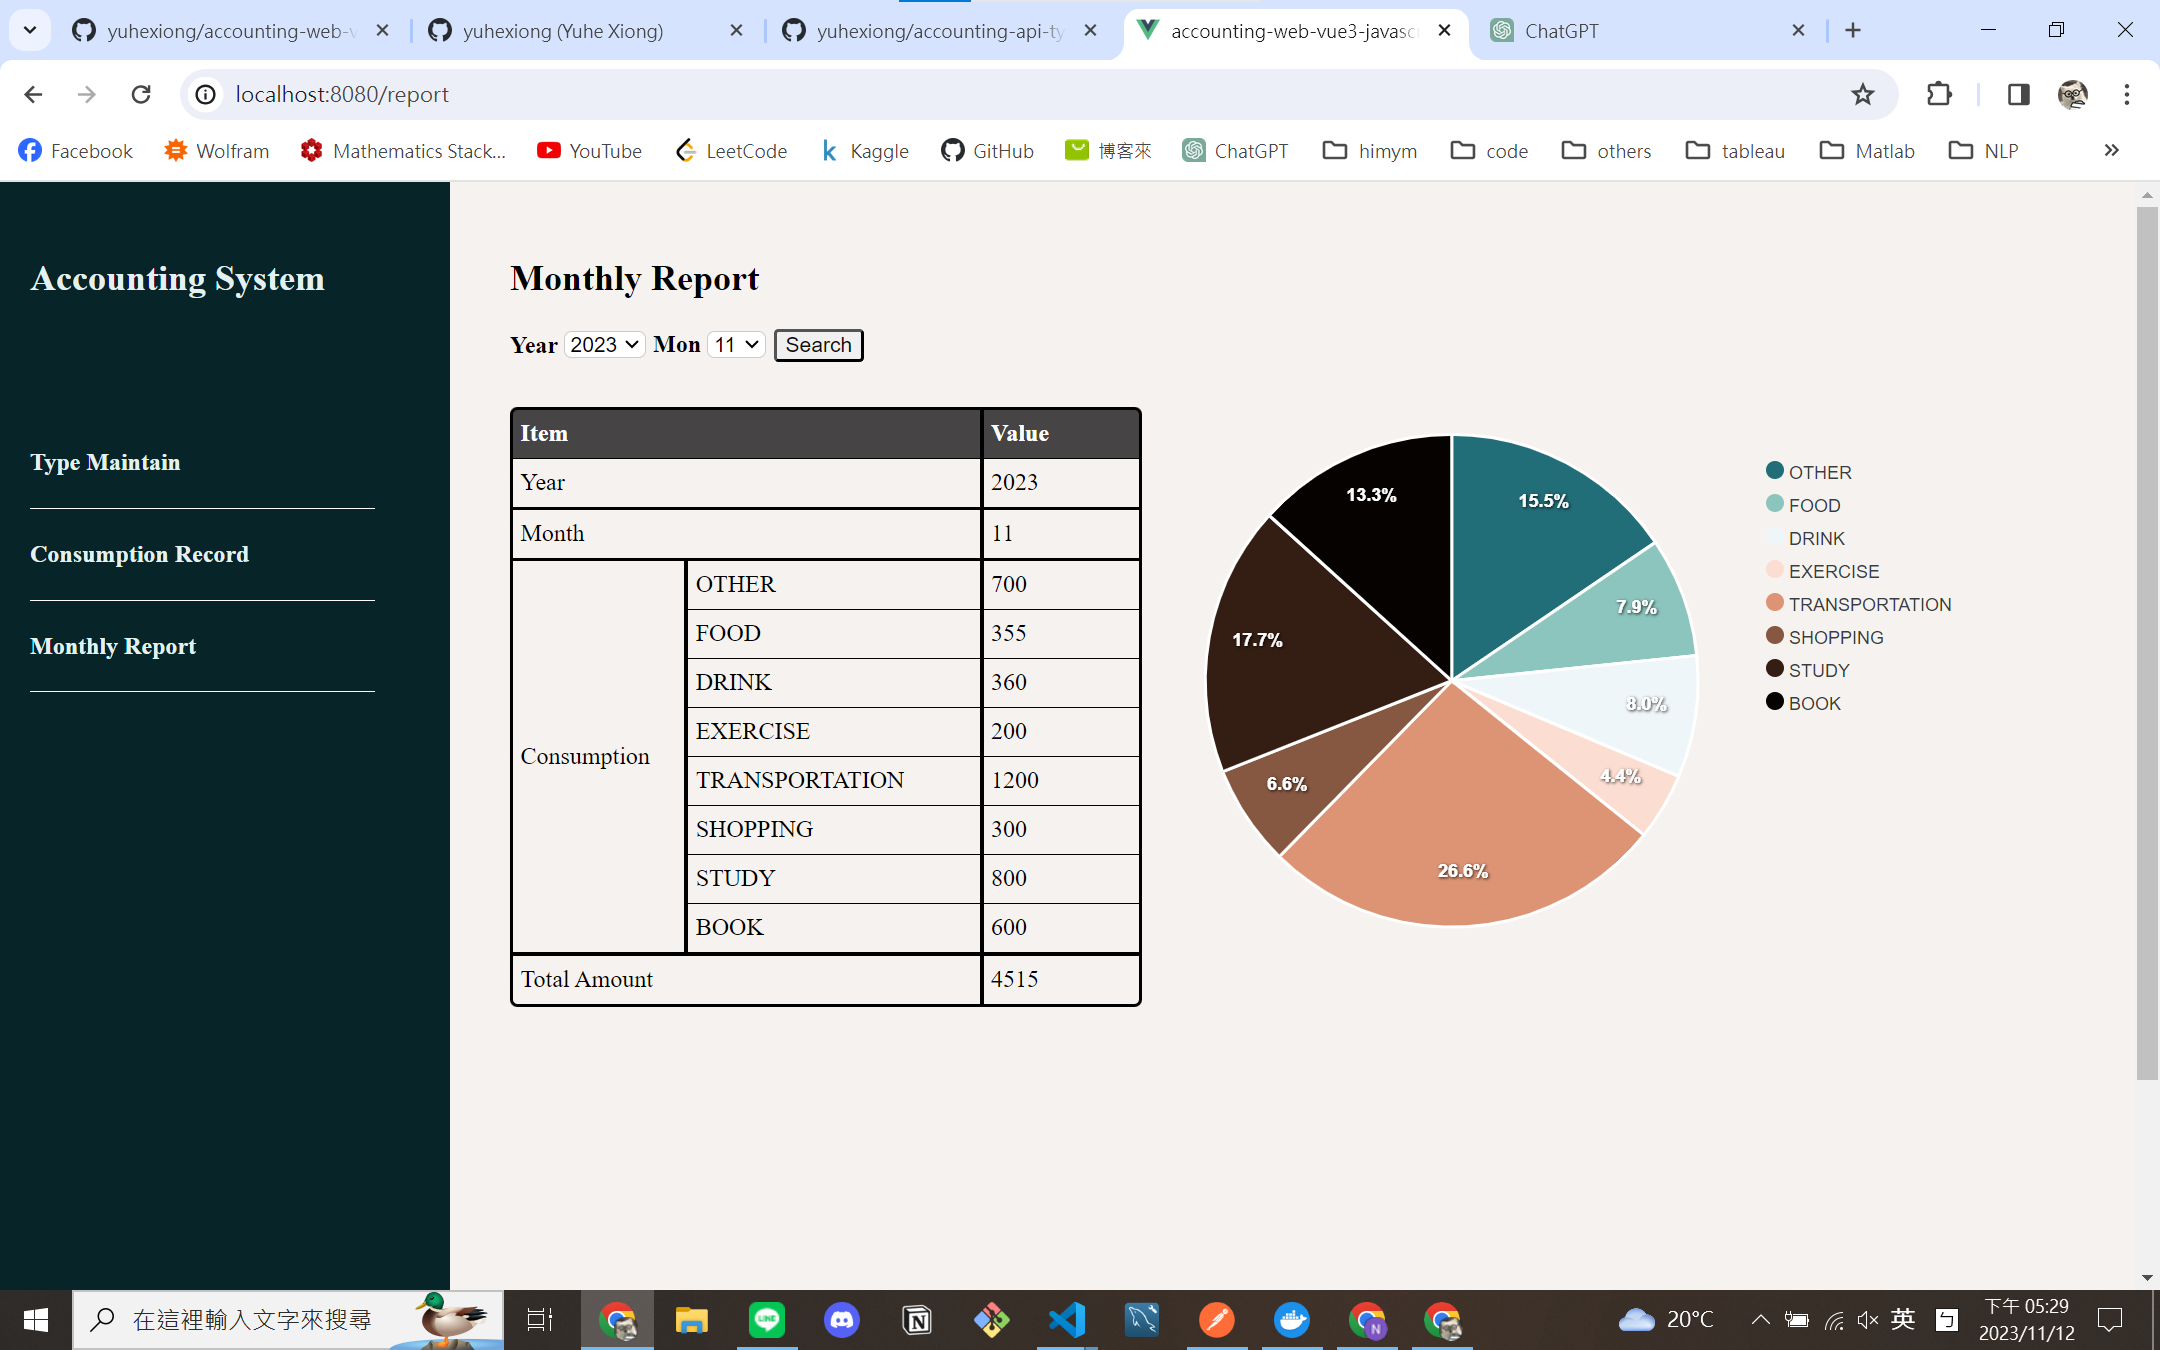
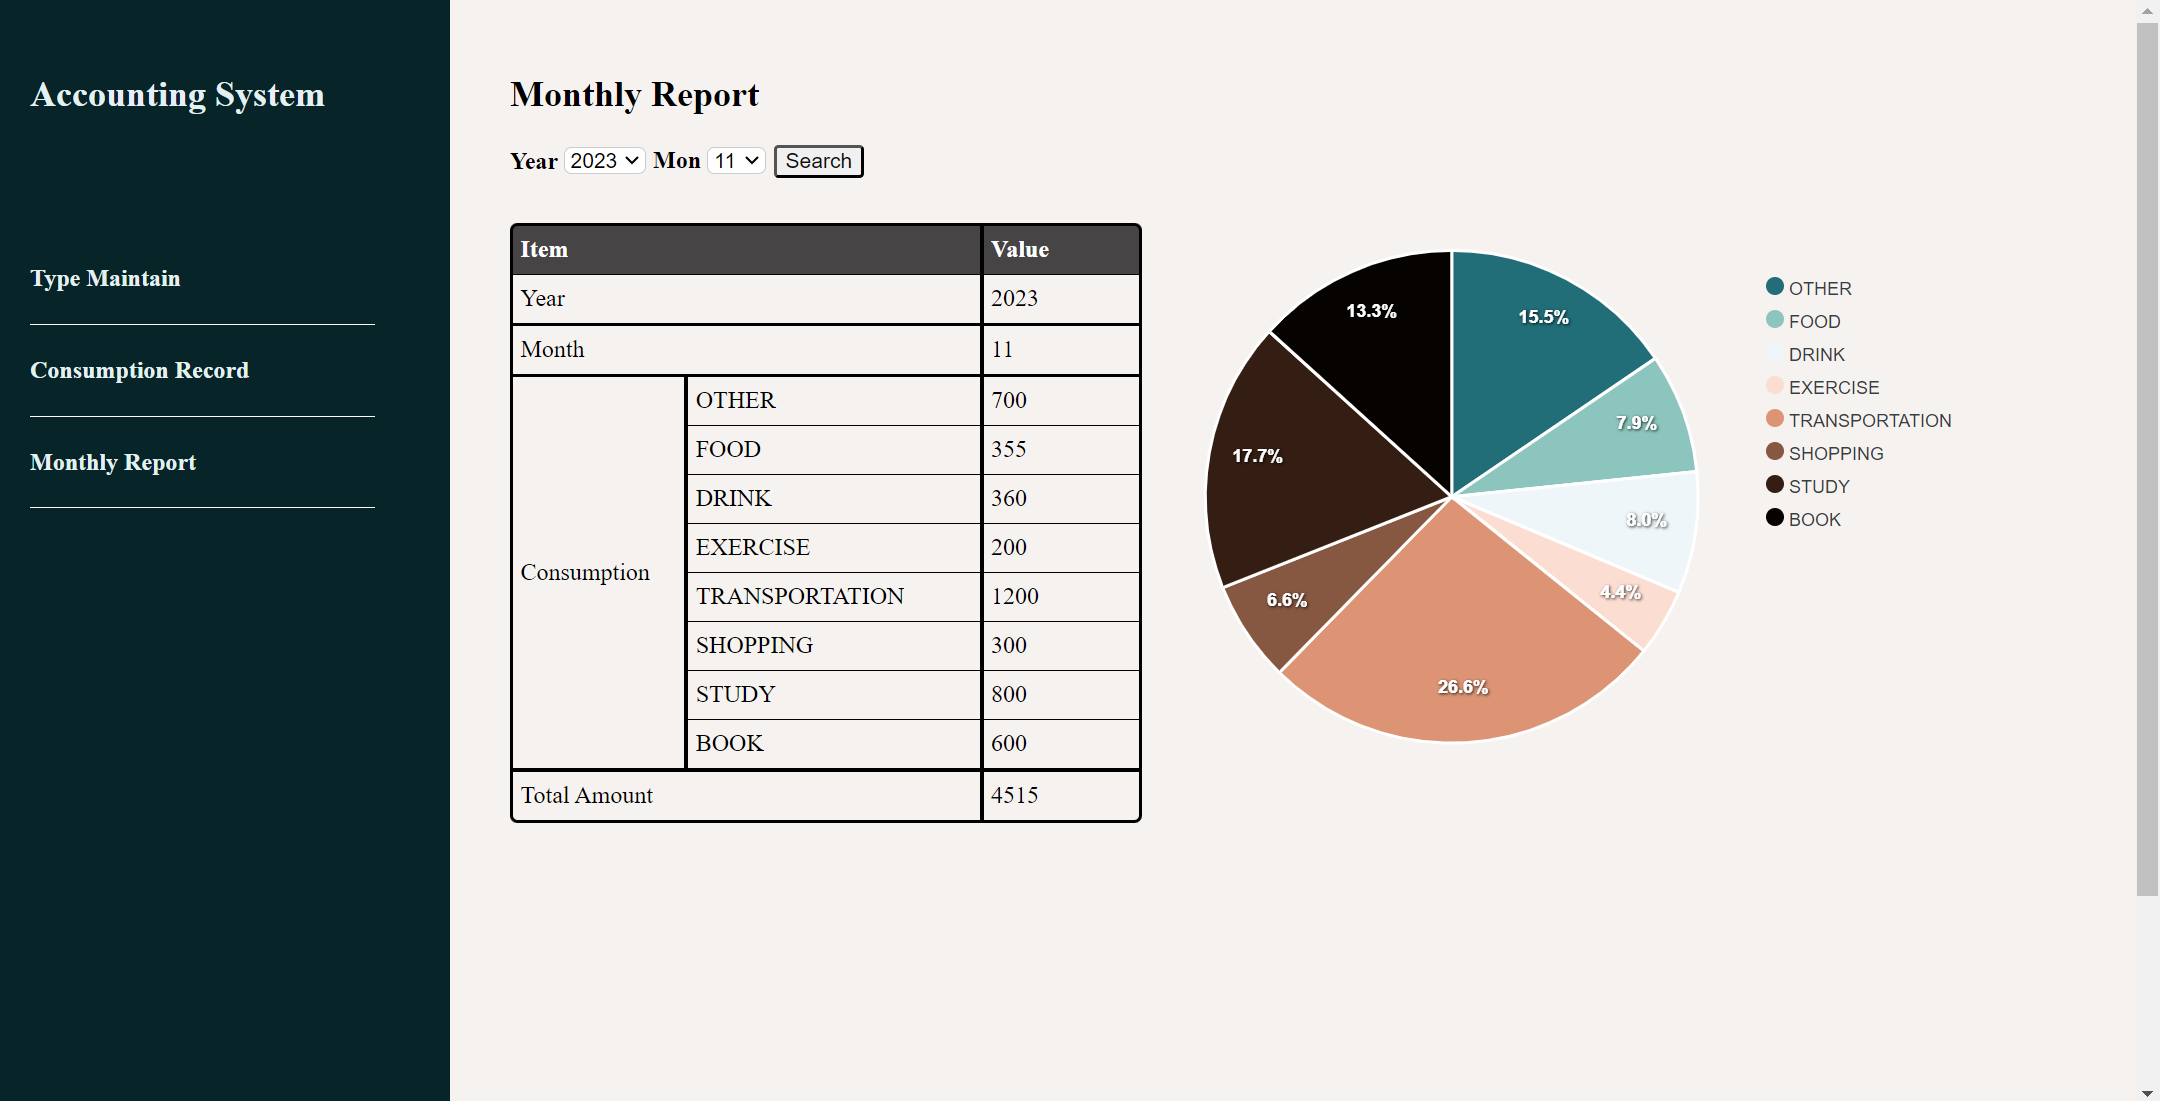
fix: recut image

diff --git a/README.md b/README.md
@@ -1,6 +1,6 @@
 # Accounting Web
 
-### Backend Server - [Accounting Api](https://github.com/yuhexiong/accounting-api-typescript)
+### Backend Server - [Accounting Api TypesScript](https://github.com/yuhexiong/accounting-api-typescript)
 
 ## Overview
 
